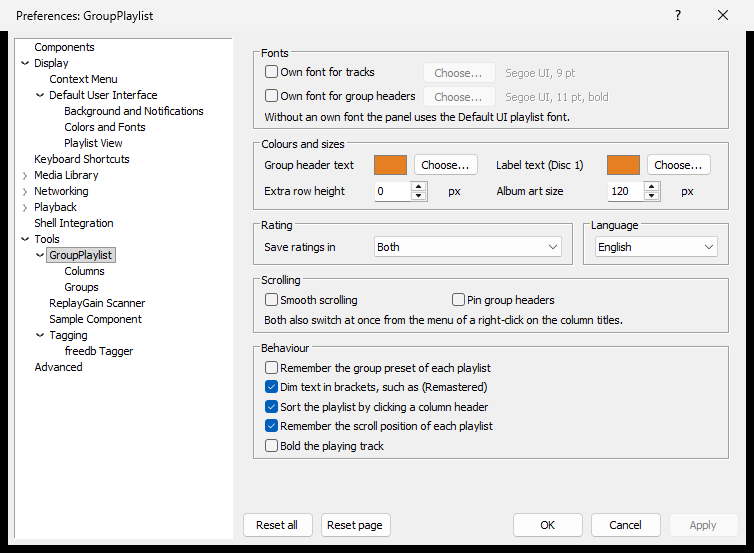
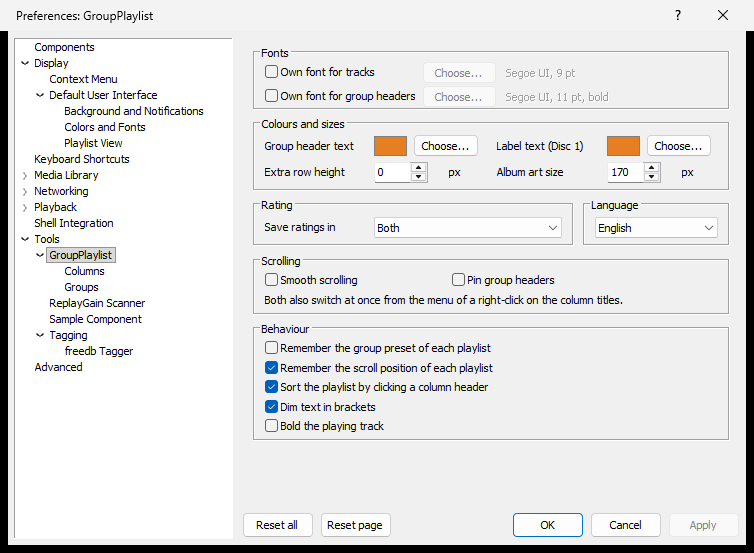
Trim two hints from the settings page and reorder Behaviour

Changed region(s): [[0.3355, 0.1844, 0.9761, 0.83]]

diff --git a/components/foo_groupplaylist/src/ui_text.h b/components/foo_groupplaylist/src/ui_text.h
@@ -20,7 +20,6 @@ inline constexpr UiText kKoreanTexts[] = {
 	{ "Own font for tracks", "곡 줄 글꼴 직접 지정" },
 	{ "Own font for group headers", "그룹 머리글 글꼴 직접 지정" },
 	{ "Choose...", "선택..." },
-	{ "Without an own font the panel uses the Default UI playlist font.", "직접 지정하지 않으면 Default UI의 재생목록 글꼴을 씁니다." },
 	{ "Colours and sizes", "색과 크기" },
 	{ "Group header text", "그룹 머리글 글자" },
 	{ "Label text (Disc 1)", "라벨 글자 (Disc 1)" },
@@ -40,7 +39,7 @@ inline constexpr UiText kKoreanTexts[] = {
 	{ "Both also switch at once from the menu of a right-click on the column titles.", "두 가지 모두 열 제목을 오른쪽 클릭한 메뉴에서도 바로 켜고 끌 수 있습니다." },
 	{ "Behaviour", "동작" },
 	{ "Remember the group preset of each playlist", "재생목록마다 그룹 방식 기억" },
-	{ "Dim text in brackets, such as (Remastered)", "괄호 안 글자를 흐리게 표시 (예: (Remastered))" },
+	{ "Dim text in brackets", "괄호 안 글자를 흐리게 표시" },
 	{ "Sort the playlist by clicking a column header", "열 제목을 클릭해 재생목록 정렬" },
 	{ "Remember the scroll position of each playlist", "재생목록마다 스크롤 위치 기억" },
 	{ "Bold the playing track", "재생 중인 곡을 굵게 표시" },

diff --git a/components/foo_groupplaylist/README.md b/components/foo_groupplaylist/README.md
@@ -83,7 +83,7 @@ Open **File > Preferences > Tools > GroupPlaylist**.
 - **Rating**: where a click on the stars saves the rating: **File tags**, **Playback Statistics**, or **Both**. The last two need the separate Playback Statistics component (`foo_playcount`). Without it they are greyed out and marked "(needs Playback Statistics)".
 - **Language**: **Automatic** follows the Windows display language (Korean on Korean Windows, English otherwise). **English** and **한국어** choose one. After **Apply** the panel and the page change at once. Reopen Preferences to see the page names in the new language.
 - **Scrolling**: smooth scrolling and pinned group headers, the same switches as in the panel menu.
-- **Behaviour**: remember the group preset and the scroll position of each playlist, dim text in brackets such as `(Remastered)`, sort by clicking a column title, and show the playing track in bold.
+- **Behaviour**: remember the group preset and the scroll position of each playlist, sort by clicking a column title, dim text in brackets such as `(Remastered)`, and show the playing track in bold.
 
 Two pages sit below it:
 
